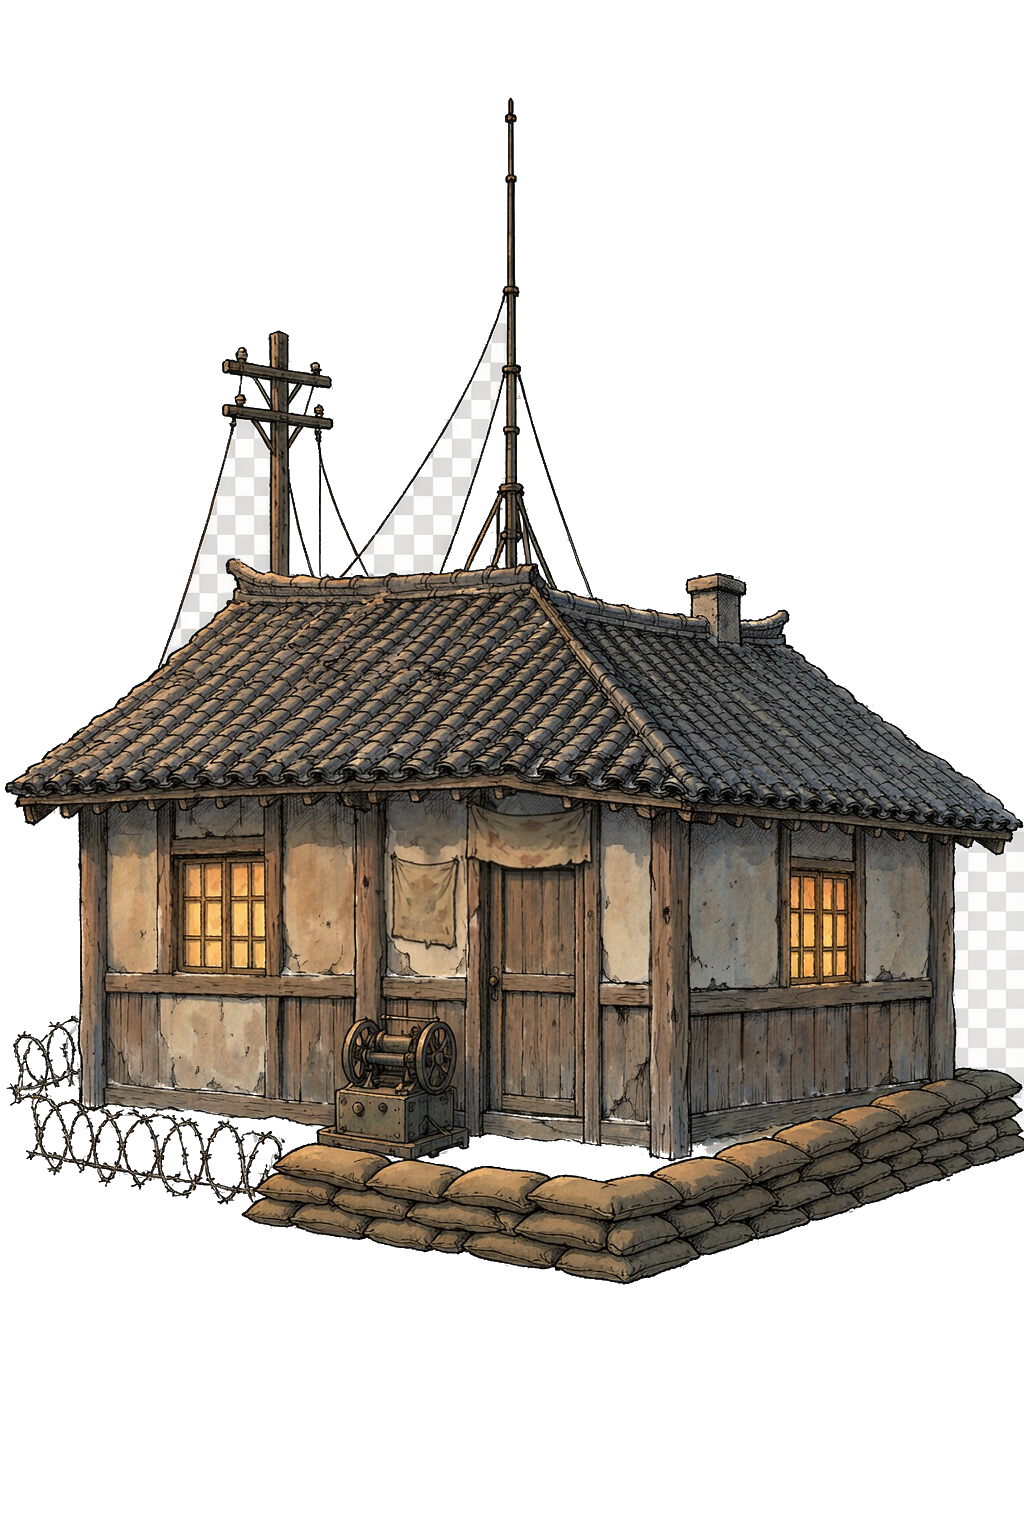
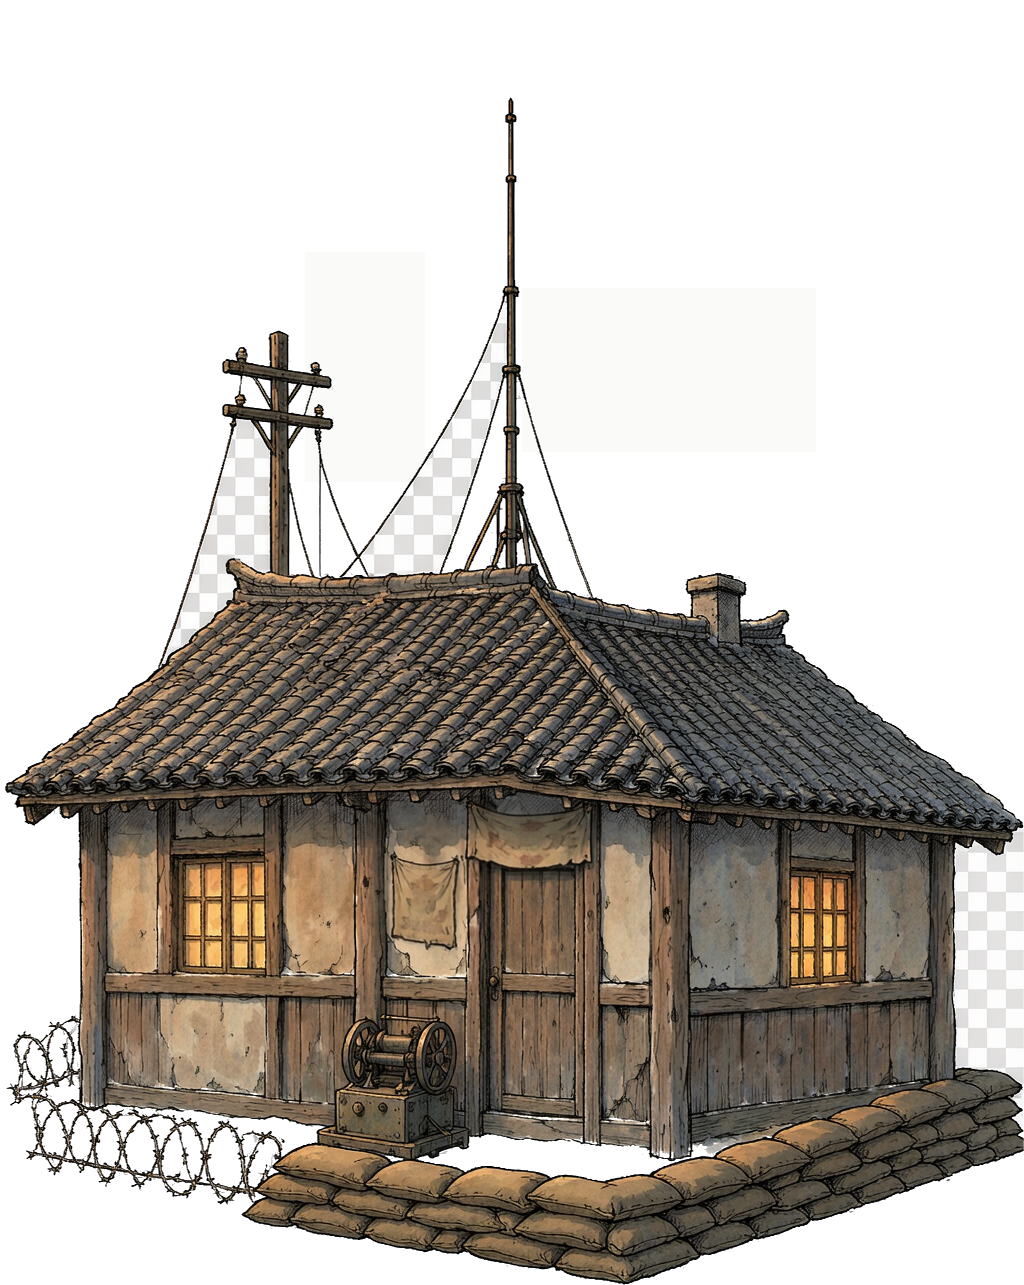
九一八 · 电台小屋落地/棋盘格修净 + 移出江桥桥面
- radio_station.png：裁掉底部约 251px 留白（不再悬浮），天线帆布/旗布填成不透明实色（消除棋盘格），PIL 实测
- N918Level：comm 据点由 x4620 移到 x4000，落于桥台之前的地面，不再压江桥桥面/铁轨结构
- CaptureN918/箭头目标同步到 4000
- README 同步最新修改点

diff --git a/scripts/N918Level.cs b/scripts/N918Level.cs
@@ -314,7 +314,7 @@ public partial class N918Level : Node2D
     ///   柳条湖爆破点  ~600-1200  →  h1 巡道工小屋（可搜，含信）
     ///   北大营围墙    ~1700-2600  →  h2 营房外民居（可搜，含信）；此地触发不抵抗令抉择
     ///   民居群        ~2900-3900  →  h3 完整民居 / h4 屋顶坍塌院落（可搜，含信）
-    ///   通信据点      ~4300-4900  →  comm 无线电发信机据点（可搜 + 供电 + 发报通关）
+    ///   通信据点      ~4000-4400  →  comm 无线电发信机据点（可搜 + 供电 + 发报通关；置于桥台之前、落在地面，不压桥面/铁轨结构）
     /// 远景废墟列（f1~f4）为纯背景，不可进入。
     ///
     /// comm 暂用 house_intact_near 作可见占位（独立据点建筑）；待美术交付专属
@@ -336,7 +336,8 @@ public partial class N918Level : Node2D
         AddHouse("h3", 3120f, "house_ruined_near_autumn", HouseWidthForWall("house_ruined_near_autumn", WallH), true, 0f);
         AddHouse("h4", 3700f + Jit(40), "house_posts_autumn", HouseWidthForWall("house_posts_autumn", WallH), false, 0f);
         // 通信据点（无线电发信机）：专属军事据点建筑 radio_station（本就无雪，沿用）
-        AddHouse("comm", 4620f, "radio_station", HouseWidthForWall("radio_station", WallH), true, 0f);
+        // v_next: 原先落在 x4620（正好压在江桥桥面 4457-4902 上）→ 移到 4000，落在桥台之前的地面、不压桥面/铁轨结构
+        AddHouse("comm", 4000f, "radio_station", HouseWidthForWall("radio_station", WallH), true, 0f);
     }
 
     /// <summary>
@@ -1651,7 +1652,7 @@ public partial class N918Level : Node2D
             _hud.ShowPrompt("按 E · 进屋搜索");
         else if (near != null)
             _hud.ShowPrompt("按住 E · 记录口述");
-        else if (px > 4100f && !GameState.I.S.N918RadioSent)
+        else if (px > 3900f && !GameState.I.S.N918RadioSent)
             _hud.ShowPrompt("进通信据点 · 发报通关");
         else
             _hud.ShowPrompt("");
@@ -1661,7 +1662,7 @@ public partial class N918Level : Node2D
         // 目标在屏幕外时给纸色箭头：默认指向通信据点（通关点）
         Vector2 target = near != null
             ? near.GlobalPosition
-            : new Vector2(4620, GroundY);
+            : new Vector2(4000, GroundY);
         Vector2 screen = target - _cam.GlobalPosition + new Vector2(640, 360);
         bool off = screen.X > 1190f || screen.X < 60f;
         if (off && (_elapsed % 4f) < 3.2f)

diff --git a/scripts/CaptureN918.cs b/scripts/CaptureN918.cs
@@ -94,7 +94,7 @@ public partial class CaptureN918 : Node
         // 6: 上一站 exterior 的纹理已稳定读出，现在才瞬移门口 + 进据点
         else if (_stage == 6 && _t > _frozeAt + 2.5f)
         {
-            float doorX = 4620f;
+            float doorX = 4000f;
             var comm = _lvl._houses.FirstOrDefault(h => h.Id == "comm");
             if (comm != null) doorX = comm.DoorX;
             FreezeAt(doorX);

diff --git a/README.md b/README.md
@@ -34,7 +34,7 @@
 
 - **初秋化美术（暖色调非雪原）**：沈阳柳条湖场景改为初秋夜——枯黄草坡、暖橙远山、榆树残叶、惨白月亮，与江桥的严冬雪原区分开；新增 `assets/art/backdrop/*_autumn.png`（mountains/village/tree_elm）与 `assets/art/props/*_autumn.png`（bridge / 近景民居 intact·ruined·skeleton·posts·burned）。
 - **破损白边透明根修**：近景破损/焚毁民居贴图原本残留一圈白底白边（开口、窗户、破洞处），被玩家截图指出。用像素级「封闭近白区域清除」（flood-fill 围死的白底口袋 + alpha 外扩吃抗锯齿边）把白边整圈抠成透明——实测残留浅灰从数万 px 降到 1985–3722 px（仅建筑本体），开口/窗户不再有白底。
-- **radio_station 透明融入背景**：电台小屋贴图（`assets/art/props/radio_station.png`）背后原本是一块灰白棋盘格（没完全透明、遮到背景）。同法清掉灰白棋盘格、只留建筑本体——现 **62.4% 透明**、仅 38566 浅灰像素（建筑），彻底融入初秋夜背景（PIL 实测）。
+- **radio_station 浮空/棋盘格修净**：电台小屋贴图（`assets/art/props/radio_station.png`）原本底部留白约 251px 导致贴地悬浮、天线帆布为透明露出棋盘格。已裁掉底部留白（落地）、把帆布/旗布填成不透明实色（消除棋盘格），并把位置由 x4620 移到 **x4000**，落于江桥桥台之前的地面、不再压桥面 / 铁轨结构（玩家诉求：房子必须在地面、不在铁轨/桥上）。
 - **室内改成可搜索房间格局（提升可玩性）**：不再用文字面板式的室内 UI，改为**可见的房间格局**——进屋后看到墙面/家具/光影构成的真实空间，墙上/桌上/角落分布可点击的**搜索物件**（信件、家书、线索、信封），点击即搜刮并落 `WitnessState.N918Loot`；落款按支线参数化（江桥=「江桥抗战官兵家书意象改写」、九一八=「东北军官兵家书意象改写」），虚构人物伦理提示不变。
 - **状态机并入 WitnessState**：新增 9 个九一八字段（`N918Done / N918Testimony / N918Loot / N918EnvelopeCount / N918RadioSent / N918Resist / N918Visited / N918Powered / N918Refugees`），跨场持久化搜刮/证言/电台状态。`dotnet build` 在 nakamura85 代码下 **0 error** 通过验证。
 
